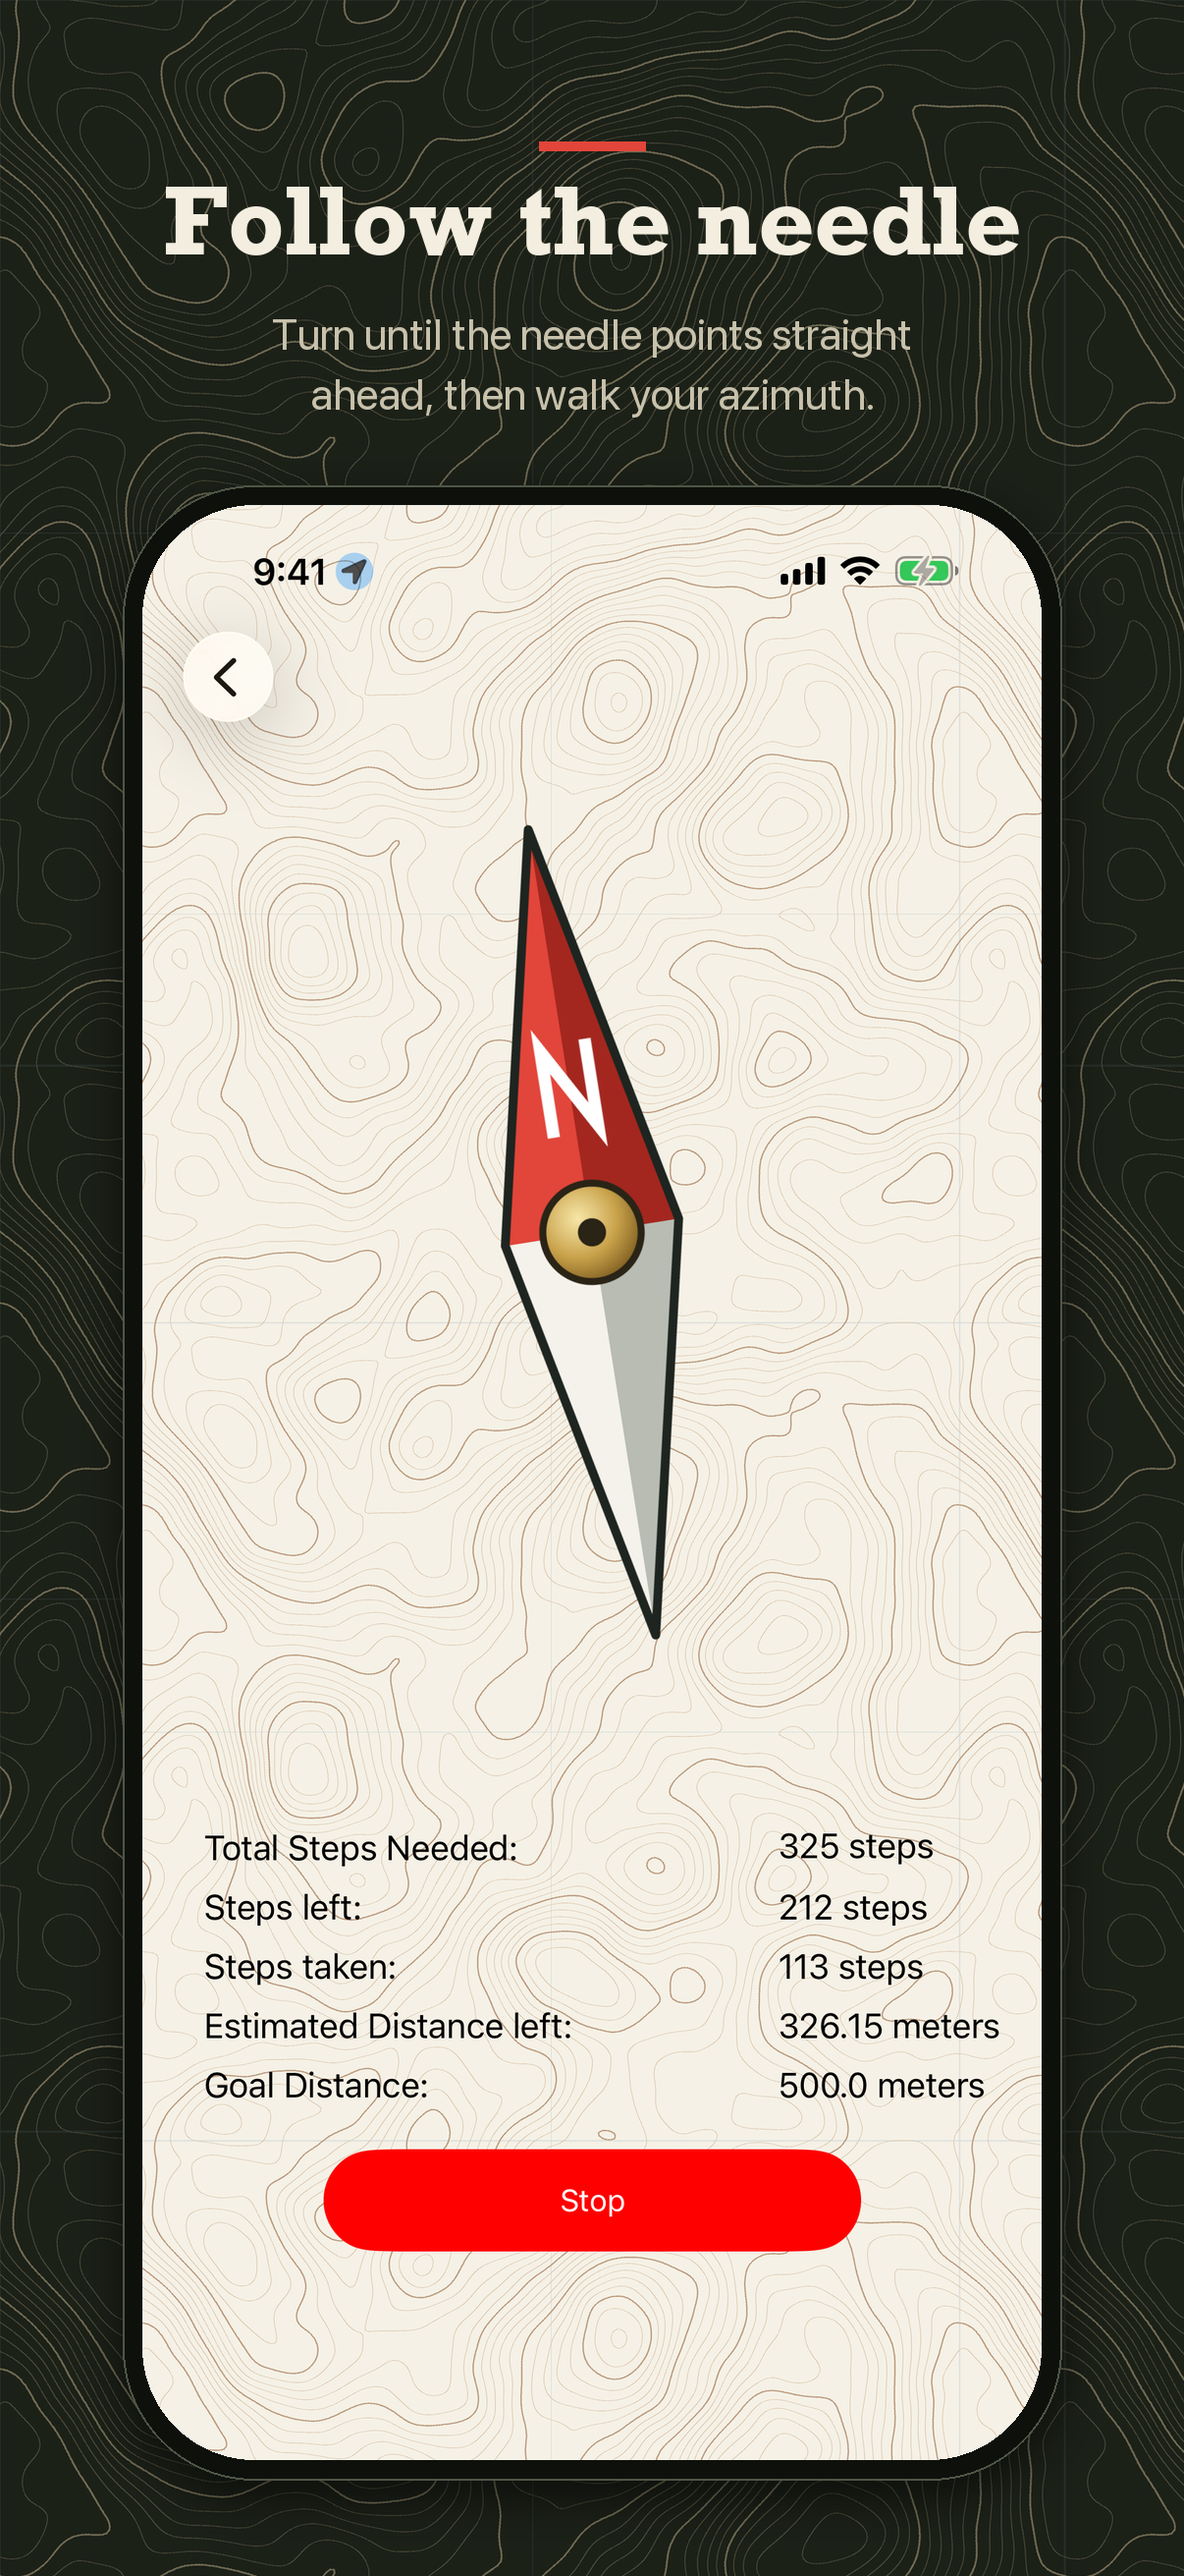
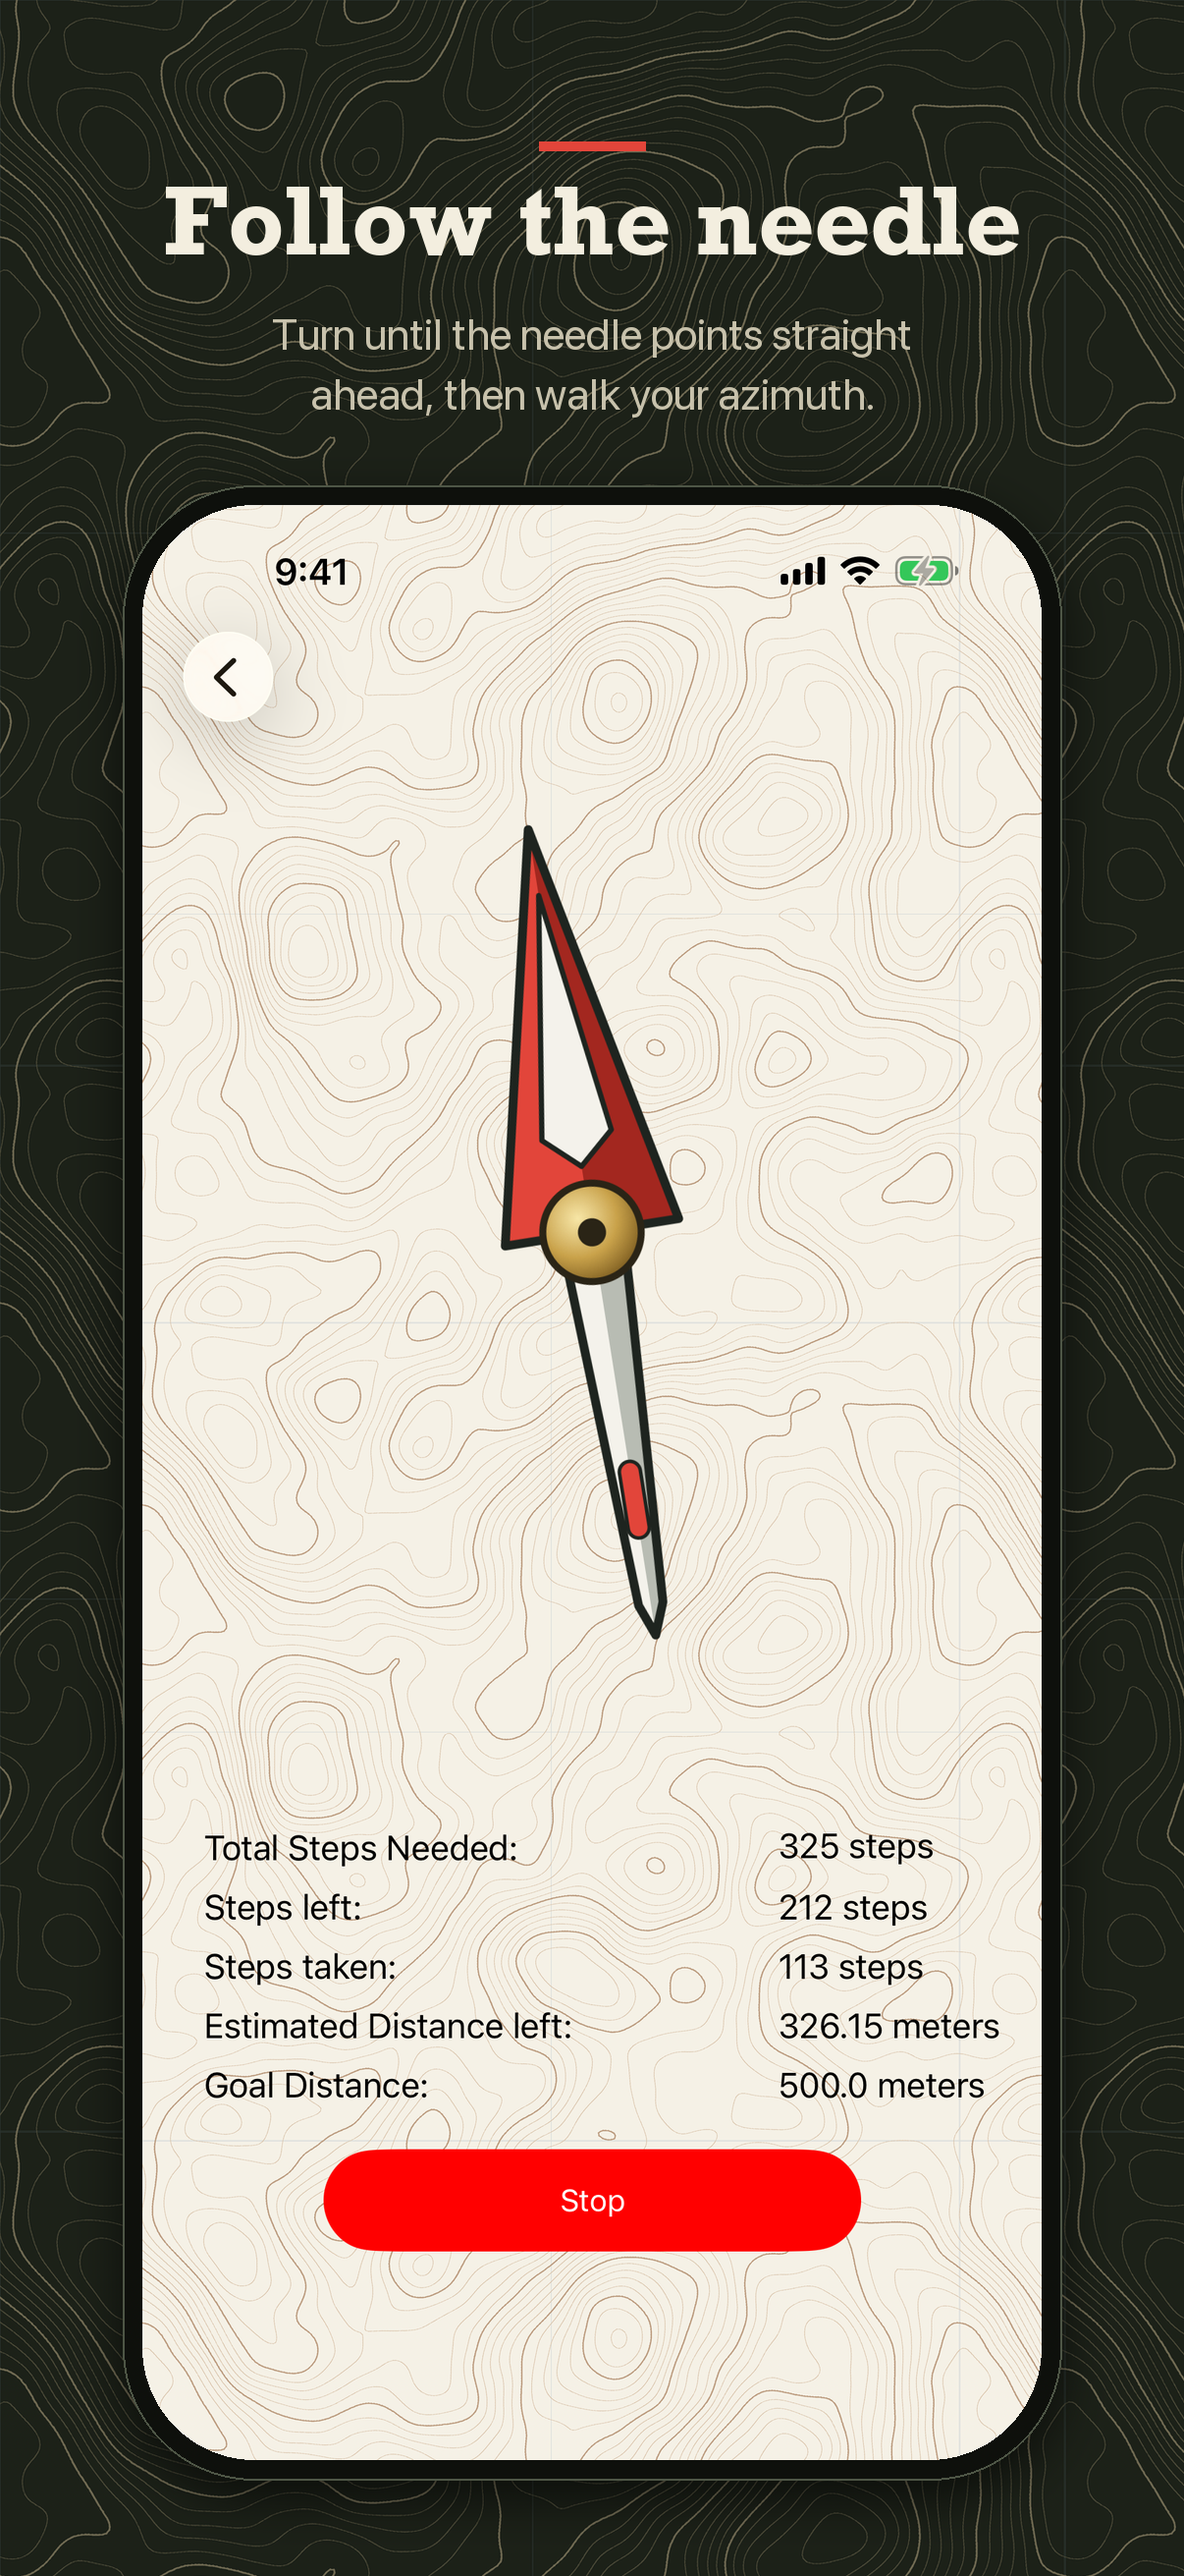
Update 2.2 App Store materials for the Lensatic needle
Re-captured the compass screens with the new red-and-white needle and
rebuilt the screenshots that show it (01 and 05 in every set) plus the
header and search results assets. Store copy no longer mentions the "N".
All of it is posted to App Store Connect.

Changed region(s): [[0.4295, 0.4634, 0.5829, 0.6487], [0.4295, 0.3398, 0.5216, 0.4634], [0.2148, 0.2162, 0.3068, 0.2471]]

diff --git a/AppStore/2.2/metadata.md b/AppStore/2.2/metadata.md
@@ -36,10 +36,10 @@ navigation,orienteering,bearing,ranger,army,military,infantry,hiking,topo,map,st
 
 ## Promotional text
 
-155 / 170 characters · can be changed any time without a new build
+140 / 170 characters · can be changed any time without a new build
 
 ```text
-New in 2.2: a classic compass needle with a red north tip and a topographic-map look on every screen, in Light and Dark Mode. Set your azimuth and walk it.
+New in 2.2: a red-and-white compass needle and a topographic-map look on every screen, in Light and Dark Mode. Set your azimuth and walk it.
 ```
 
 ## Description
@@ -64,7 +64,7 @@ KNOW YOUR PACE COUNT
 
 MADE FOR THE FIELD
 • Topographic-map styling on every screen, in Light and Dark Mode.
-• A classic red-and-white compass needle, with an "N" on the red tip.
+• A slim red-and-white compass needle that stays sharp on any screen.
 • VoiceOver describes the needle and how to follow it.
 
 A NOTE ON TRUE NORTH
@@ -78,12 +78,12 @@ Use Dead Reckoning as a training aid alongside a map and compass. It is not affi
 
 ## What's New in Version 2.2
 
-298 / 4000 characters
+268 / 4000 characters
 
 ```text
 Dead Reckoning has a new look.
 
-• New compass needle: a classic red-and-white needle with an "N" on the red tip replaces the hand-drawn arrow. It stays sharp on every screen size.
+• New compass needle: a slim red-and-white needle replaces the hand-drawn arrow. It stays sharp on every screen size.
 • New topographic-map background on every screen, with matching Light and Dark Mode versions.
 • New app icon to match.
 ```
